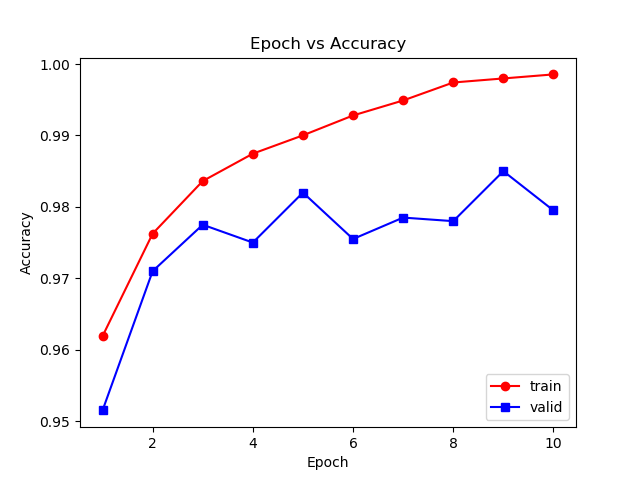
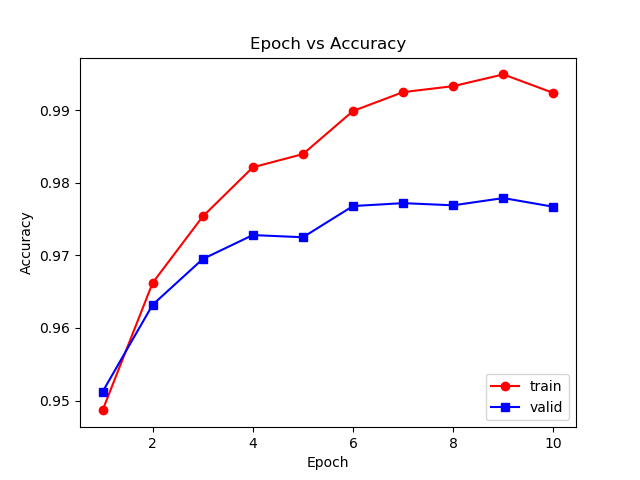
commit changes

diff --git a/part1/main_train_size.py b/part1/main_train_size.py
@@ -1,0 +1,102 @@
+__author__	= 	"Olga (Ge Ya) Xu"
+__email__ 	=	"olga.xu823@gmail.com"
+
+from util import *
+
+def parse():
+	parser = argparse.ArgumentParser()
+	parser.add_argument('-lr', '--learning_rate', default=1e-2, type=float,
+						help='Learning rate')
+	parser.add_argument('-m', '--momentum', default=0.5, type=float, help="Momentum")
+	parser.add_argument('-s', '--seed', default=123, type=int, help='Random seed')
+	parser.add_argument('--batch_size', default=50, type=int,
+						help='Mini-batch size for training')
+	parser.add_argument('--test_batch_size', default=1000, type=int,
+						help='Mini-batch size for testing')
+	parser.add_argument('--plot_iter', default=200, type=int, help='Plot iteration')
+	parser.add_argument('-w', '--weight_init_method', default='glorot', type=str,
+						help='Weight initialization method')
+	parser.add_argument('-r', '--result_path', default='./result', type=str,
+						help='Result path')
+
+	args = parser.parse_args()
+	return args
+
+def output_model_setting(args):
+	print('Learning rate: {}'.format(args.learning_rate))
+	print('Weight initialization method: {}'.format(args.weight_init_method))
+	print('Mini-batch size: {}'.format(args.batch_size))
+	print('Nonlinearity: {}'.format('ReLU'))
+
+if __name__ == '__main__':
+
+	args = parse()
+	output_model_setting(args)
+
+	torch.manual_seed(args.seed)
+	
+	if use_cuda:
+		torch.cuda.manual_seed_all(args.seed)
+
+	alphas = [0.01, 0.02, 0.05, 0.1, 1.0]
+	epoch = 100
+
+	for alpha in alphas:
+
+		print '\nTraining with alpha={}.'.format(alpha)
+
+		train_loader, valid_loader, test_loader = load_data(batch_size=args.batch_size,
+															test_batch_size=args.test_batch_size,
+															alpha=alpha)
+
+		print 'Number of training data: {}.\n'.format(len(train_loader.dataset))
+
+		model = Net(128, 128, args.weight_init_method)
+
+		if use_cuda:
+			model.cuda()
+
+
+		train_loss, train_acc, val_loss, val_acc, test_loss, test_acc = \
+			run(model, train_loader, test_loader, total_epoch=epoch,
+				lr = args.learning_rate, momentum=args.momentum, result_path=args.result_path,
+				valid_loader=valid_loader, verbose=False)
+		'''
+		plt.plot(range(1, 1+epoch), train_acc, 'ro-', label='train')
+		plt.plot(range(1, 1+epoch), val_acc, 'bs-', label='valid')
+		plt.plot(range(1, 1+epoch), test_acc, 'g^-', label='test')
+
+		plt.xlabel('Epoch')
+		plt.ylabel('Accuracy')
+
+		plt.title('Epoch vs Accuracy')
+		plt.legend(loc=4)
+
+		plt.savefig('{}/Training_Size_1a_{}_result.png'.format(args.result_path, alpha))
+		print '{}/Training_Size_1a_{}_result.png is saved.'.format(args.result_path, alpha)
+		plt.clf()
+
+		plt.plot(range(1, 1+epoch), train_loss, 'ro-', label='train')
+		plt.plot(range(1, 1+epoch), val_loss, 'bs-', label='valid')
+		plt.plot(range(1, 1+epoch), test_loss, 'g^-', label='test')
+
+		plt.xlabel('Epoch')
+		plt.ylabel('Loss')
+
+		plt.title('Epoch vs Loss')
+		plt.legend(loc=4)
+
+		plt.savefig('{}/Training_Size_1a_{}_loss.png'.format(args.result_path, alpha))
+		print '{}/Training_Size_1a_{}_loss.png is saved.'.format(args.result_path, alpha)
+		plt.clf()
+		'''
+
+		val_loss = np.array(val_loss)
+		min_val_loss = np.min(val_loss)
+		min_val_loss_idx = np.argmin(val_loss)
+
+		print 'Best validation model: val_loss={}\tepoch={}'.format(min_val_loss,
+																	min_val_loss_idx+1)
+
+		print 'G_a(r(train)-r(test))= {:.4f}\n'.format(train_acc[min_val_loss_idx]-\
+													test_acc[min_val_loss_idx])

diff --git a/part1/main.py b/part1/main.py
@@ -19,8 +19,8 @@ def parse():
 						help='Weight initialization method')
 	parser.add_argument('-r', '--result_path', default='./result', type=str,
 						help='Result path')
-	parser.add_argument('-v', '--num_valid', default=None, type=int,
-						help='Number of validation data')
+	parser.add_argument('-a', '--alpha', default=1.0, type=float,
+						help='Alpha')
 
 	args = parser.parse_args()
 	return args
@@ -29,36 +29,51 @@ def output_model_setting(args):
 	print('Learning rate: {}'.format(args.learning_rate))
 	print('Weight initialization method: {}'.format(args.weight_init_method))
 	print('Mini-batch size: {}'.format(args.batch_size))
-	print('Nonlinearity: {}\n'.format('ReLU'))
+	print('Nonlinearity: {}'.format('ReLU'))
+	print('Alpha: {}\n'.format(args.alpha))
 
 if __name__ == '__main__':
 
 	args = parse()
 	output_model_setting(args)
 
+	if args.alpha > 1:
+		print 'Alpha has to be in range (0,1].'
+		exit()
+
 	torch.manual_seed(args.seed)
 	
 	if use_cuda:
 		torch.cuda.manual_seed_all(args.seed)
 
-	train_loader, test_loader = load_data(batch_size=args.batch_size,
-										  test_batch_size=args.test_batch_size)
+	train_loader, valid_loader, test_loader = load_data(batch_size=args.batch_size,
+										  test_batch_size=args.test_batch_size,
+										  alpha=args.alpha)
 
-	model = Net(810, 800, args.weight_init_method)
+	print 'Number of training data: {}\n'.format(len(train_loader.dataset))
+
+	model = Net(128, 128, args.weight_init_method)
 
 	if use_cuda:
 		model.cuda()
 
-	if args.num_valid:
-		num_valid_batch = args.num_valid//args.test_batch_size
-	else:
-		num_valid_batch = None
-
 
 	train_loss, train_acc, val_loss, val_acc, test_loss, test_acc = \
-		run(model, train_loader, test_loader, total_epoch=args.epoch,
+		run(model, train_loader, None, total_epoch=args.epoch,
 			lr = args.learning_rate, momentum=args.momentum, result_path=args.result_path,
-			num_valid_batch=num_valid_batch)
+			valid_loader=valid_loader)
+
+	plt.plot(range(1, 1+args.epoch), train_loss, 'ro-', label='train')
+	plt.plot(range(1, 1+args.epoch), val_loss, 'bs-', label='valid')
+
+	plt.xlabel('Epoch')
+	plt.ylabel('Loss')
+
+	plt.title('Epoch vs Loss')
+	plt.legend(loc=4)
+
+	plt.savefig('{}/Learning_Curves_4_loss.png'.format(args.result_path))
+	plt.clf()
 
 	plt.plot(range(1, 1+args.epoch), train_acc, 'ro-', label='train')
 	plt.plot(range(1, 1+args.epoch), val_acc, 'bs-', label='valid')
@@ -70,3 +85,4 @@ if __name__ == '__main__':
 	plt.legend(loc=4)
 
 	plt.savefig('{}/Learning_Curves_4_result.png'.format(args.result_path))
+	plt.clf()

diff --git a/part1/train_valid.py b/part1/train_valid.py
@@ -25,19 +25,13 @@ def _train(model, train_loader, optimizer, epoch):
 
 	return loss
 
-def _evaluate_data_set(model, data_loader, start=None, end=None):
+def _evaluate_data_set(model, data_loader):
 
 	model.eval()
 	total_loss, correct = 0, 0
 	total_data, total_batch = 0, 0
 
 	for batch_idx, (data, target) in enumerate(data_loader):
-
-		if end and batch_idx >= end:
-			break
-
-		if start and batch_idx < start:
-			continue
 
 		data = data.view(-1, 784)
 
@@ -64,7 +58,7 @@ def _evaluate_data_set(model, data_loader, start=None, end=None):
 
 
 def run(model, train_loader, test_loader, total_epoch, lr, momentum, result_path,
-		num_valid_batch=None, verbose=True):
+		valid_loader=None, verbose=True):
 
 	optimizer = optim.SGD(model.parameters(), lr=lr, momentum=momentum)
 	train_loss, train_acc, val_loss, val_acc, test_loss, test_acc = [], [], [], [], [], []
@@ -89,20 +83,21 @@ def run(model, train_loader, test_loader, total_epoch, lr, momentum, result_path
 																		   accuracy)
 
 		# valid evaluation
-		if test_loader and num_valid_batch:
-			avg_loss, accuracy = _evaluate_data_set(model, test_loader, end=num_valid_batch)
+		if valid_loader:
+			avg_loss, accuracy = _evaluate_data_set(model, valid_loader)
 			val_loss.append(avg_loss)
 			val_acc.append(accuracy)
 			output += 'valid_loss={:.3f}  valid_acc={:.3f}  '.format(avg_loss, accuracy)
 
 		# test evaluation
 		if test_loader:
-			avg_loss, accuracy = _evaluate_data_set(model, test_loader, start=num_valid_batch)
+			avg_loss, accuracy = _evaluate_data_set(model, test_loader)
 			test_loss.append(avg_loss)
 			test_acc.append(accuracy)
 			output += 'test_loss={:.3f}  test_acc={:.3f}'.format(avg_loss, accuracy)
 
-		print output
+		if verbose:
+			print output
 
 
 	return train_loss, train_acc, val_loss, val_acc, test_loss, test_acc 

diff --git a/part1/util.py b/part1/util.py
@@ -12,6 +12,7 @@ import torch.optim as optim
 
 import numpy as np
 import argparse, os
+import copy
 
 import matplotlib as mpl
 mpl.use('Agg')
@@ -24,13 +25,25 @@ use_cuda = torch.cuda.is_available()
 from model import *
 from train_valid import *
 
-def load_data(batch_size, test_batch_size):
+def load_data(batch_size, test_batch_size, alpha=1):
+
+	train_data = dset.MNIST('data', train=True, download=True, transform=transforms.ToTensor())
+	train_data.train_data = train_data.train_data[:50000]
+	train_data.train_labels = train_data.train_labels[:50000]
+	valid_data = dset.MNIST('data', train=True, download=True, transform=transforms.ToTensor())
+	valid_data.train_data = valid_data.train_data[50000:]
+	valid_data.train_labels = valid_data.train_labels[50000:]
+
+	train_data_len = len(train_data)
+	train_data.train_data = train_data.train_data[:int(alpha*train_data_len)]
+	train_data.train_labels = train_data.train_labels[:int(alpha*train_data_len)]
 
 	train_loader = torch.utils.data.DataLoader(
-		dset.MNIST('data', train=True, download=True, transform=transforms.ToTensor()),
-		batch_size=batch_size, shuffle=True)
+		train_data, batch_size=batch_size, shuffle=True)
+	valid_loader = torch.utils.data.DataLoader(
+		valid_data, batch_size=batch_size, shuffle=True)
 	test_loader = torch.utils.data.DataLoader(
 		dset.MNIST('data', train=False, download=True, transform=transforms.ToTensor()),
 		batch_size=test_batch_size, shuffle=True)
 
-	return train_loader, test_loader
+	return train_loader, valid_loader, test_loader

diff --git a/part1/main_init.py b/part1/main_init.py
@@ -16,6 +16,8 @@ def parse():
 	parser.add_argument('--epoch', default=10, type=int, help='Number of epochs')
 	parser.add_argument('-r', '--result_path', default='./result', type=str,
 						help='Result path')
+	parser.add_argument('-a', '--alpha', default=1.0, type=float,
+						help='Alpha')
 
 	args = parser.parse_args()
 	return args
@@ -31,13 +33,20 @@ if __name__ == '__main__':
 
 	output_model_setting(args)
 
+	if args.alpha > 1:
+		print 'Alpha has to be in range (0,1].'
+		exit()
+
 	torch.manual_seed(args.seed)
 
 	if use_cuda:
 		torch.cuda.manual_seed_all(args.seed)
 
-	train_loader, _ = load_data(batch_size=args.batch_size,
-								test_batch_size=args.test_batch_size)
+	train_loader, _, _ = load_data(batch_size=args.batch_size,
+								   test_batch_size=args.test_batch_size,
+								   alpha=args.alpha)
+
+	print 'Number of training data: {}\n'.format(len(train_loader.dataset))
 
 	results = {}
 
